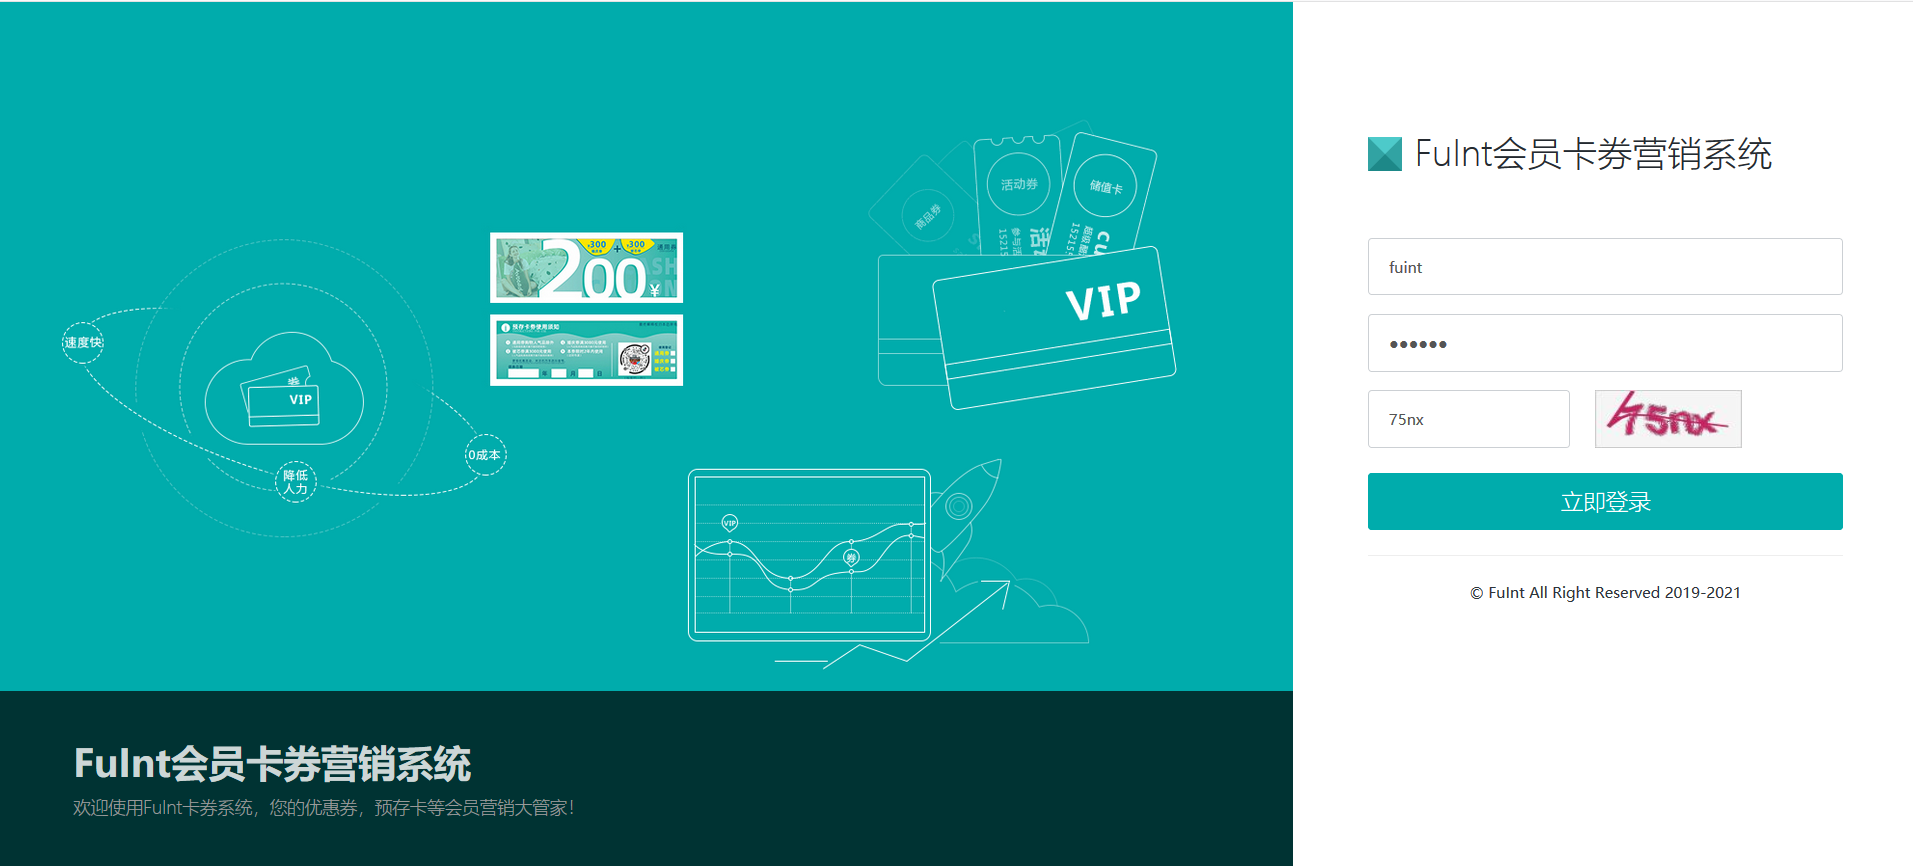
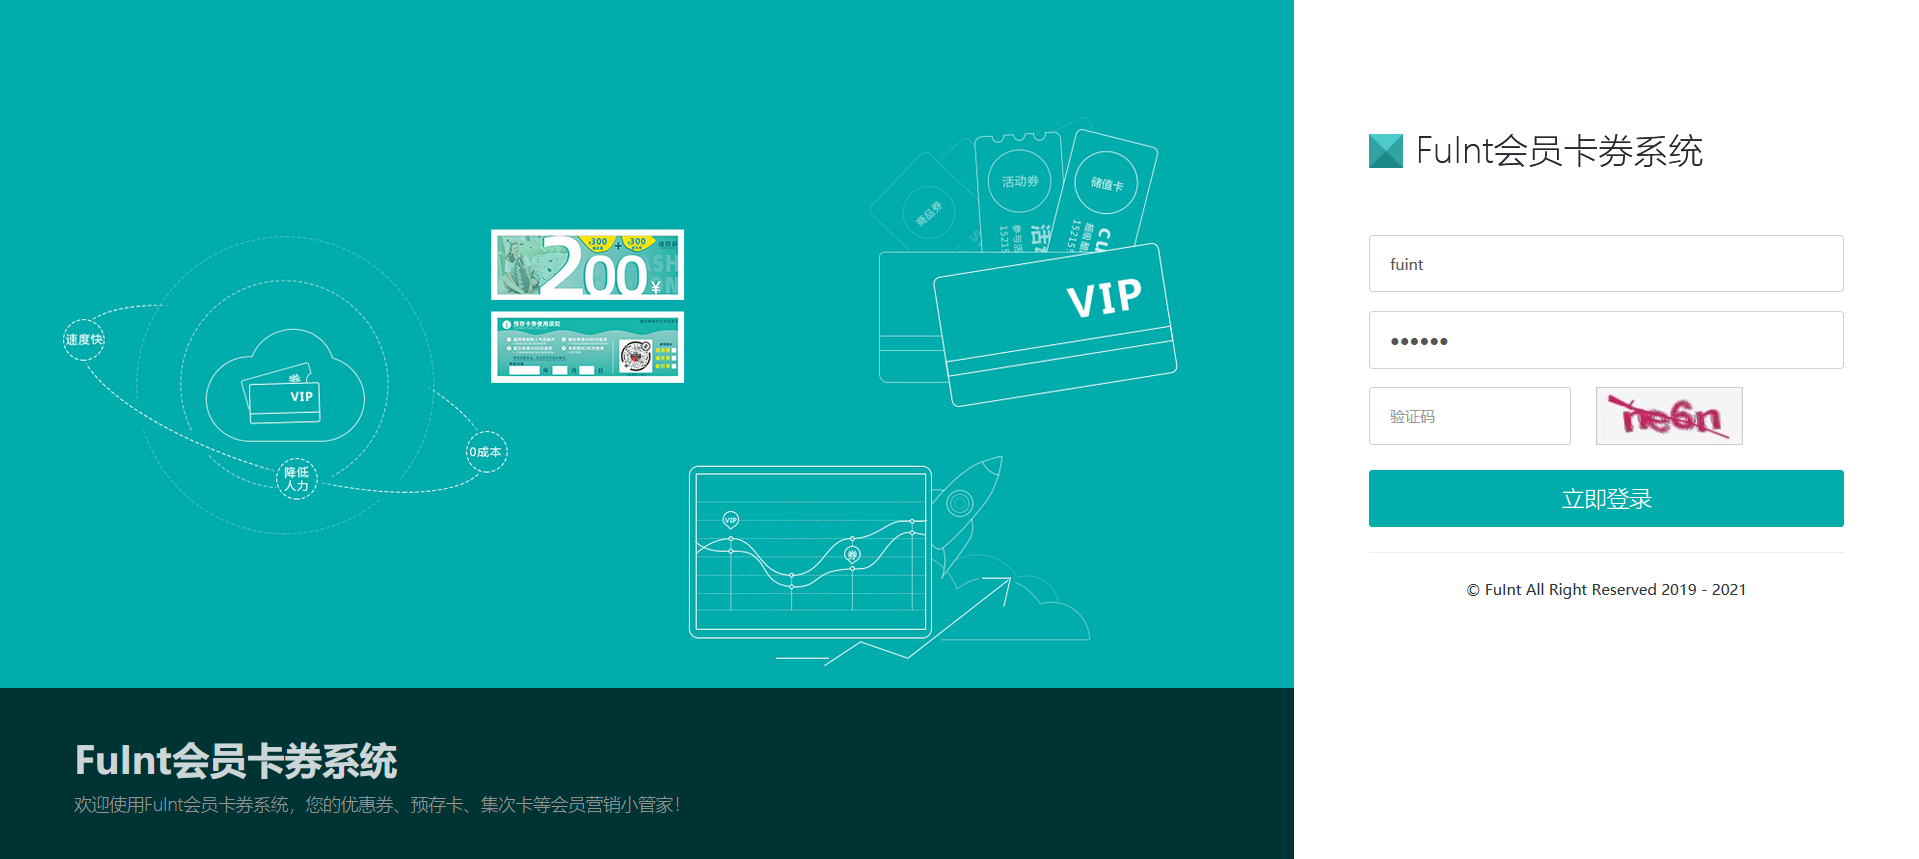
fixed README.md

diff --git a/README.md b/README.md
@@ -26,6 +26,7 @@ JAVA（springMvc+mybatis） + MYSQL + Redis
 3.  核销卡券，会员在前台出示二维码，管理员用微信扫一扫即可核销。
 4.  卡券转赠，会员可将自己的卡券转赠给其他用户，输入对方的手机号即可完成转赠，获赠的好友会收到卡券赠送的短信。
 
+<p><img src="screenshots/login.png" alt="卡券登录界面"></p>
 <p><img src="screenshots/create.png" alt="卡券创建界面"></p>
 
 #### 后台使用
